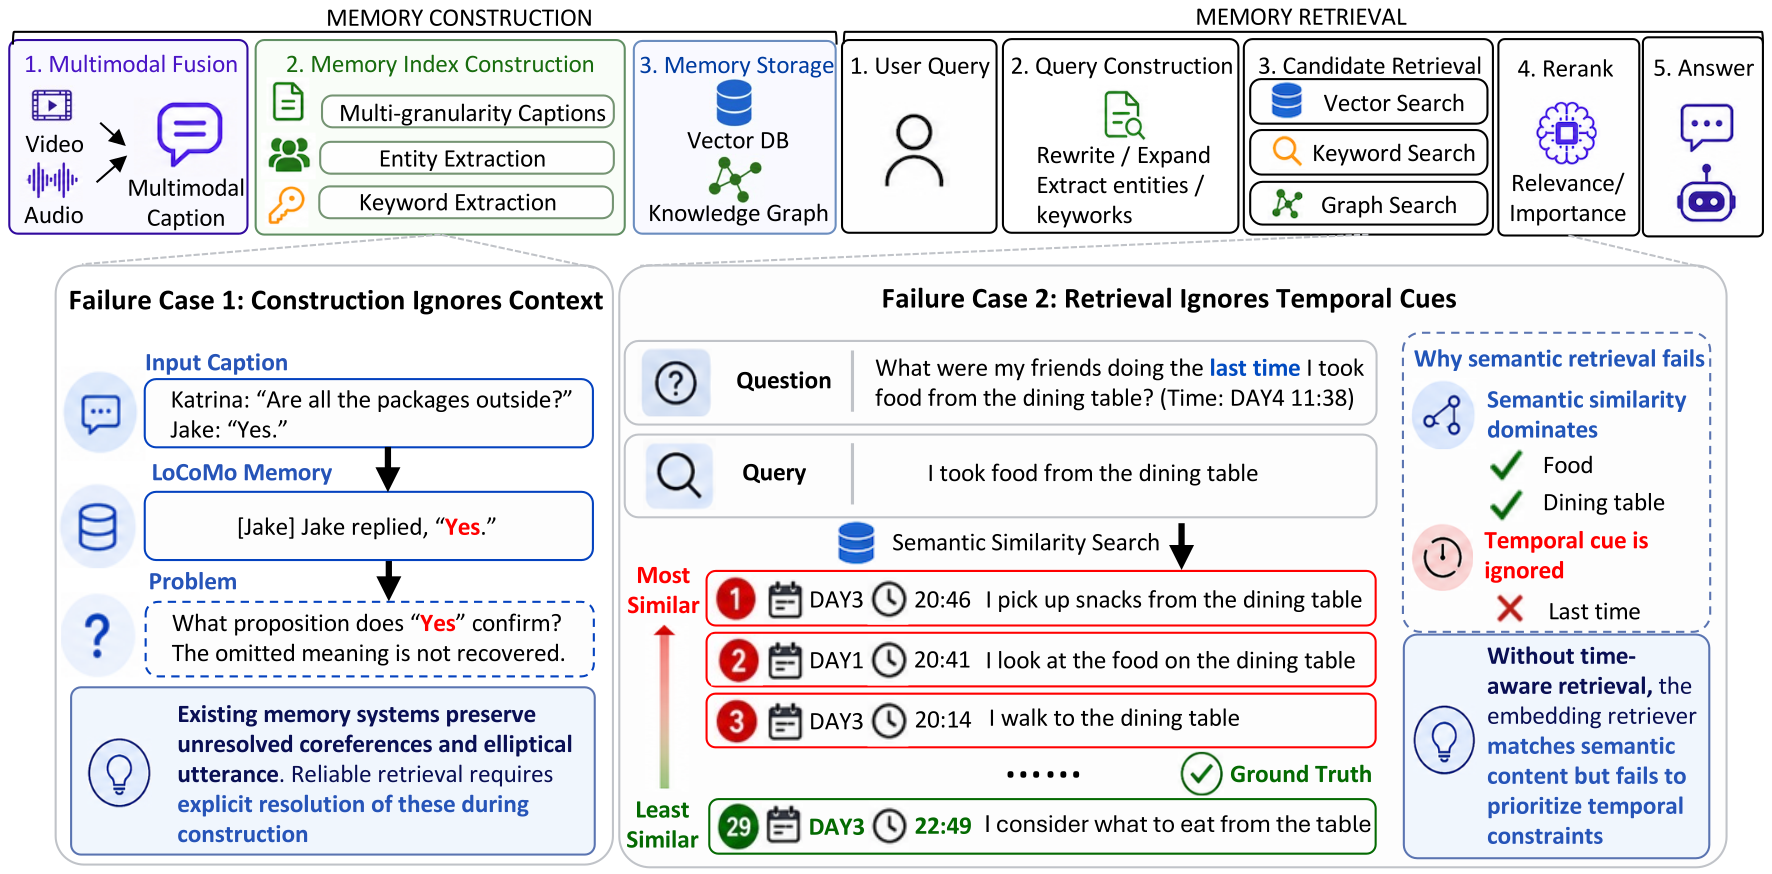
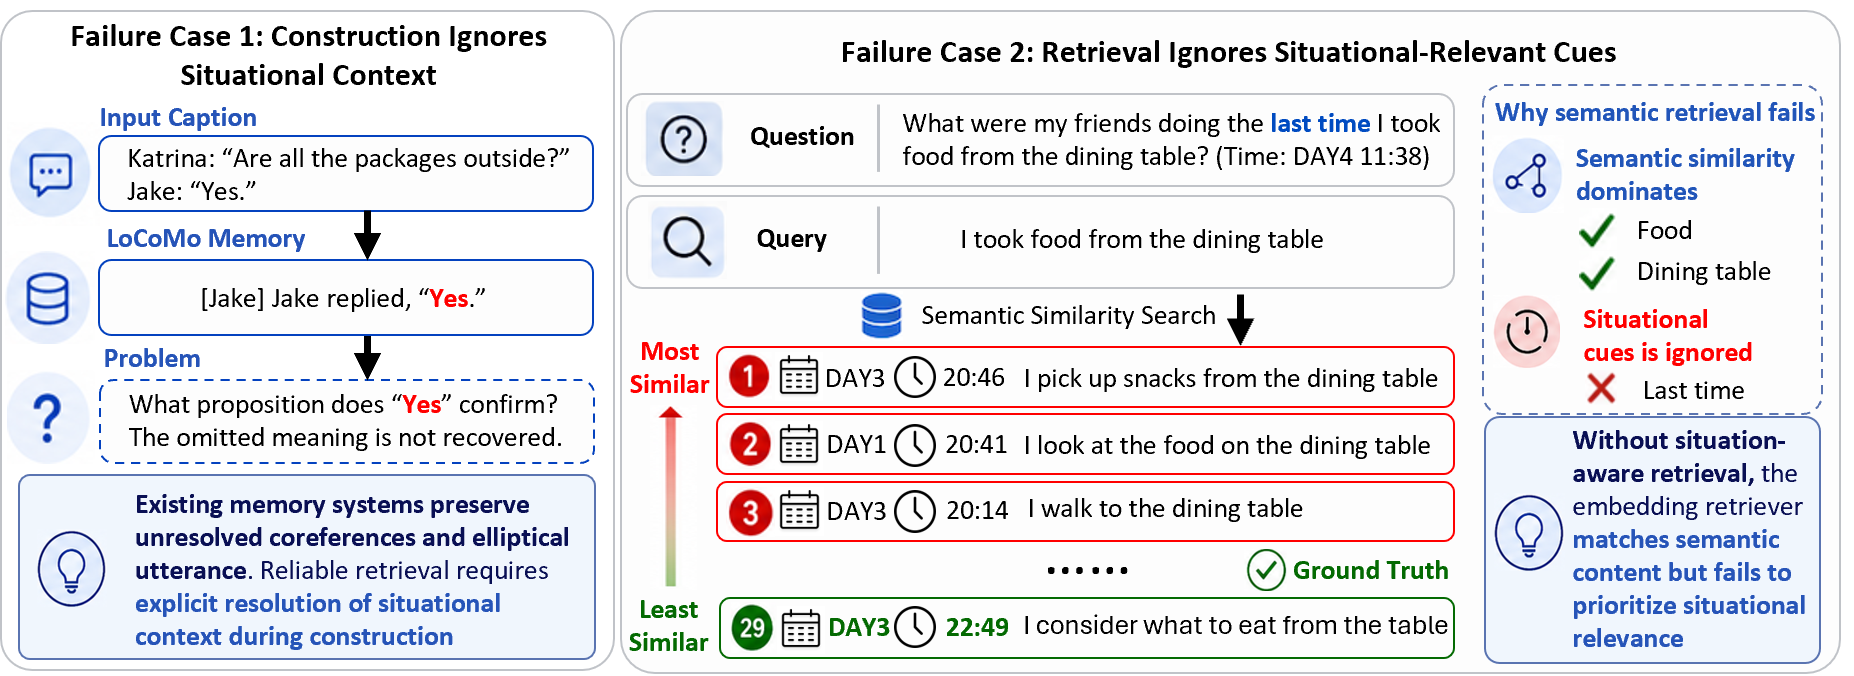
Update motivations and results presentation

diff --git a/index.html b/index.html
@@ -118,20 +118,20 @@
     <section class="section alt" id="motivation">
       <div class="container wide">
         <h2 class="section-title">Motivations</h2>
-        <p class="section-subtitle">We evaluate existing long-horizon egocentric memory systems and identify two fundamental limitations.</p>
+        <p class="section-subtitle">We analyze representative long-horizon egocentric memory systems and identify two failure cases: one in memory construction and one in retrieval.</p>
         <div class="container flush">
           <div class="two-column">
             <article class="insight">
-              <h3>Insight 1: Long-horizon egocentric agentic search is limited by what is indexed.</h3>
-              <p>Memory indices are typically built directly from short, independently generated captions and speech transcripts that omit the local context needed to resolve people, objects, actions, and elliptical utterances. Because context discarded before indexing remains unavailable to downstream agentic search, memory construction must use local context to produce self-contained atomic memory indices.</p>
+              <h3>Insight 1: Situational context must be resolved before memories are indexed.</h3>
+              <p>Existing systems typically derive their indices from short, independently generated captions and speech transcripts. These fragments omit the situational context needed to identify people, objects, actions, and elliptical utterances; no downstream structure or retrieval agent can recover context that was never resolved. Situation-aware construction must use local multimodal context to produce self-contained memories and organize complementary views at multiple granularities.</p>
               <div class="insight-stats" aria-label="Memory construction failure statistics">
-                <div class="insight-stat"><strong>10.1%</strong><small>of WorldMM triples contain unresolved references</small></div>
-                <div class="insight-stat"><strong>17.4%</strong><small>of LoCoMo observations contain verbatim quotes</small></div>
+                <div class="insight-stat"><strong>10%</strong><small>of WorldMM extracted entities contain unresolved pronouns</small></div>
+                <div class="insight-stat"><strong>17%</strong><small>of LoCoMo memory entries contain unresolved verbatim quotes</small></div>
               </div>
             </article>
             <article class="insight">
-              <h3>Insight 2: Retrieval must model temporal intent in addition to semantic relevance.</h3>
-              <p>Memory recall questions express temporal intent through recency (“last time”), habits (“usually”), or explicit time (“yesterday afternoon”). Existing systems rank primarily by semantic similarity and treat time as passive metadata, allowing semantically plausible but temporally incorrect indices to fill the top-k.</p>
+              <h3>Insight 2: Situational relevance requires question-conditioned temporal retrieval.</h3>
+              <p>Questions identify situations through temporal intent, including recency (“last time”), habits (“usually”), and explicit time (“yesterday afternoon”). Existing systems rank primarily by semantic similarity and treat time as passive metadata, filling the top-k with memories about the right activity but the wrong occurrence. Situation-aware retrieval must use a question's temporal intent to rank and curate evidence.</p>
               <div class="insight-stats" aria-label="Temporal intent statistics">
                 <div class="insight-stat"><strong>76%</strong><small>of EgoLifeQA questions contain temporal intent</small></div>
                 <div class="insight-stat"><strong>48%</strong><small>of EgoMem questions contain temporal intent</small></div>
@@ -140,8 +140,7 @@
           </div>
         </div>
         <figure class="paper-figure">
-          <a href="static/images/failure-case.png" target="_blank" rel="noreferrer"><img src="static/images/failure-case.png" alt="Failure cases in existing memory construction and retrieval systems." width="1772" height="874" loading="lazy"></a>
-          <figcaption><b>Figure 2.</b> The workflow and failure cases of existing memory construction and retrieval approaches.</figcaption>
+          <a href="static/images/failure-case.png?v=2" target="_blank" rel="noreferrer"><img src="static/images/failure-case.png?v=2" alt="Existing memory construction preserves unresolved context, while semantic-only retrieval ignores situationally relevant temporal cues." width="1854" height="676" loading="lazy"></a>
         </figure>
       </div>
     </section>
@@ -186,10 +185,10 @@
         </div>
 
         <figure class="retrieval-workflow" id="method-retrieval-panel" data-retrieval-workflow data-workflow-stage="drafting" role="tabpanel" aria-labelledby="method-tab-retrv workflow-title" tabindex="0" hidden>
-          <figcaption class="workflow-head">
+          <header class="workflow-head">
             <h3 class="workflow-title" id="workflow-title">EgoRetrv Time-Aware Atomic Memory Retrieval</h3>
             <p class="workflow-intro">EgoRetrv combines semantic search with question-conditioned temporal relevance scoring and curation of retrieved atomic memory indices. The drafting agent estimates the time query from the question using commonsense temporal knowledge and indices retrieved in prior rounds, updating it across rounds. The sampling agent orders the timestamped index pool chronologically and, for “last,” prioritizes the latest timestamps while retaining related indices needed to distinguish answer choices.</p>
-          </figcaption>
+          </header>
           <div class="workflow-stage-tabs" role="tablist" aria-label="Inspect an EgoRetrv agent">
             <button class="workflow-stage-tab" id="workflow-tab-drafting" type="button" role="tab" data-workflow-control="drafting" aria-selected="true" aria-controls="workflow-detail-drafting" tabindex="0">
               <span class="workflow-stage-icon" aria-hidden="true"><svg viewBox="0 0 24 24"><path d="m4 20 4.2-1 10.7-10.7a2.2 2.2 0 0 0-3.1-3.1L5.1 15.9 4 20Z"/><path d="m14.8 6.2 3 3M5.1 15.9 8.2 19"/></svg></span><span class="workflow-stage-copy"><strong>Drafting agent</strong><span>High-recall, multi-round retrieval</span></span>
@@ -391,7 +390,7 @@
 
     <section class="section" id="results">
       <div class="container wide">
-        <h2 class="section-title">Experiments</h2>
+        <h2 class="section-title">Results</h2>
         <p class="section-subtitle">We evaluate EgoCITE on EgoLifeQA, EgoMem, and EgoR1-Bench in terms of answer accuracy and target-event retrieval alignment.</p>
         <div class="benchmark-summary">
           <div class="benchmark-intro">
